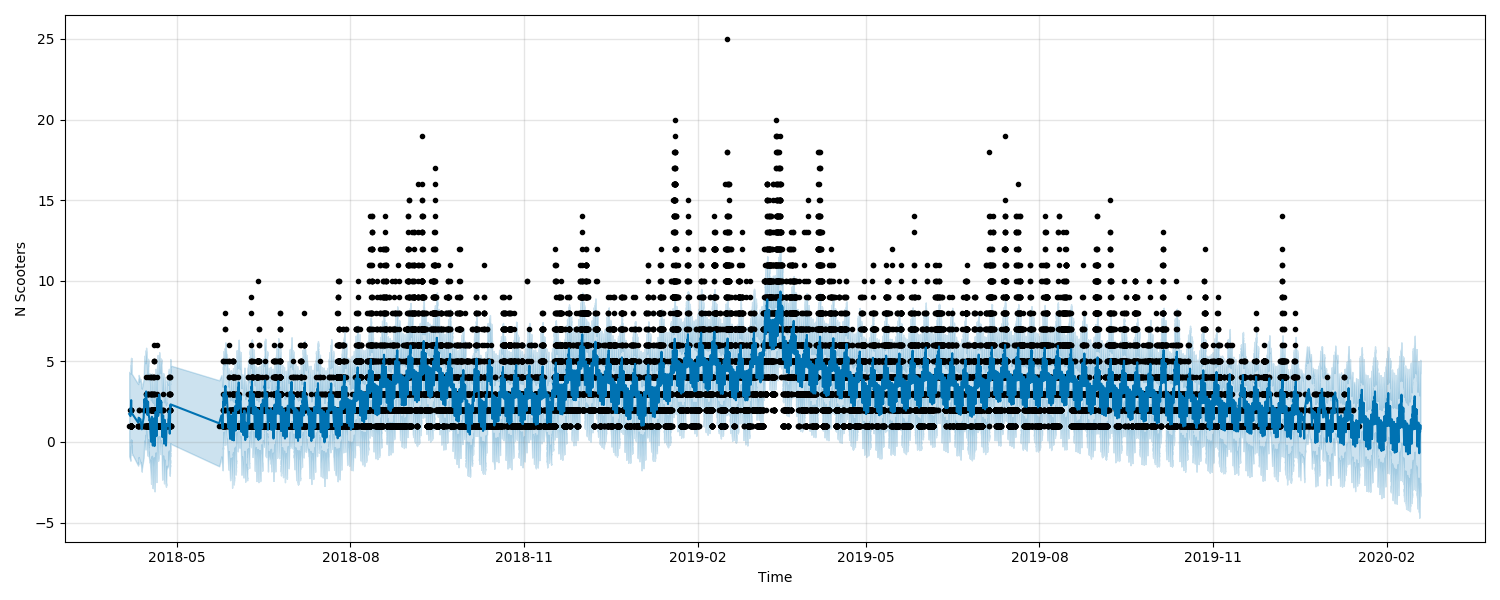
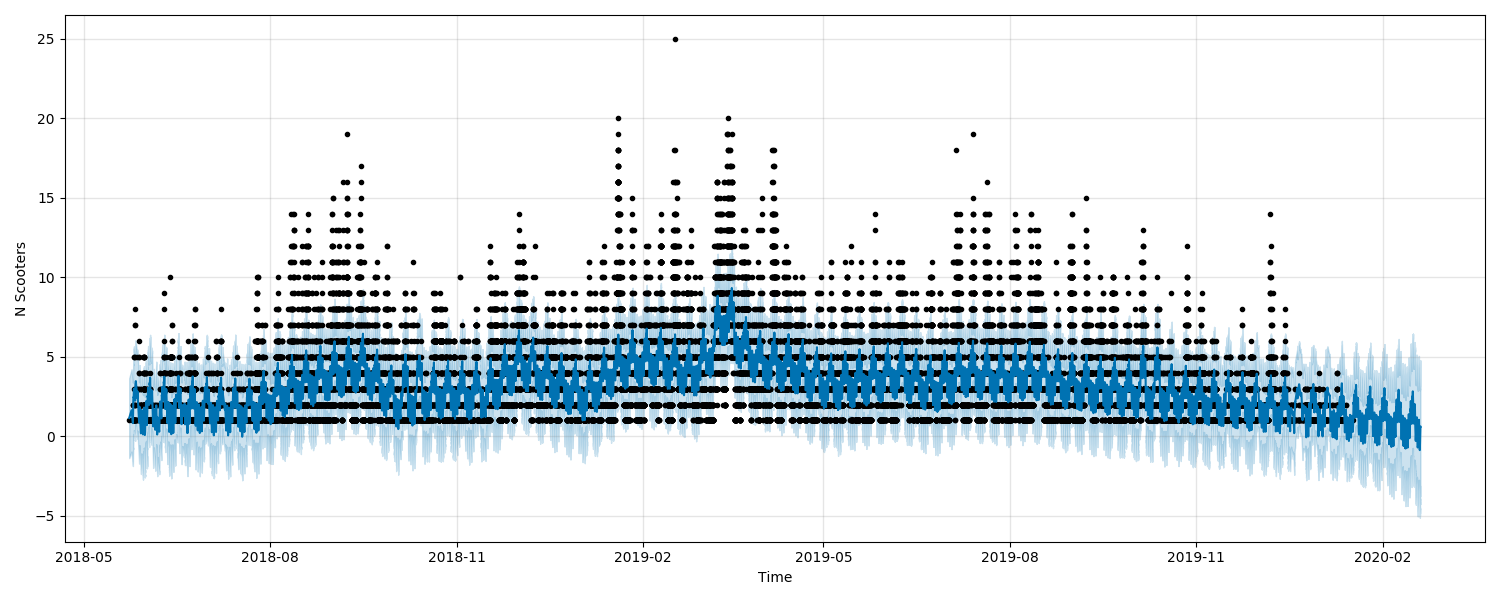
remove part of plot with missing data

diff --git a/src/demo_vis.py b/src/demo_vis.py
@@ -128,7 +128,10 @@ m.cv(initial='365 days', period='30 days', horizon='30 days', log=False)
 total_preds = m.fcst
 
 # generate and save figs here
-fig = fb_plot(m.model, m.fcst, xlabel='Time', ylabel='N Scooters', figsize=(15, 6))
+cutoff_date = pd.to_datetime('2018-05-15')
+pred_copy = m
+pred_copy.model.history = pred_copy.model.history[pred_copy.model.history['ds'] >= cutoff_date]
+fig = fb_plot(pred_copy.model, m.fcst[m.fcst['ds'] >= cutoff_date], xlabel='Time', ylabel='N Scooters', figsize=(15, 6))
 # fig.show()
 fig.savefig('/home/bapfeld/scoothome/figures/prophet_example.png')
 fig2 = m.model.plot_components(m.fcst)
